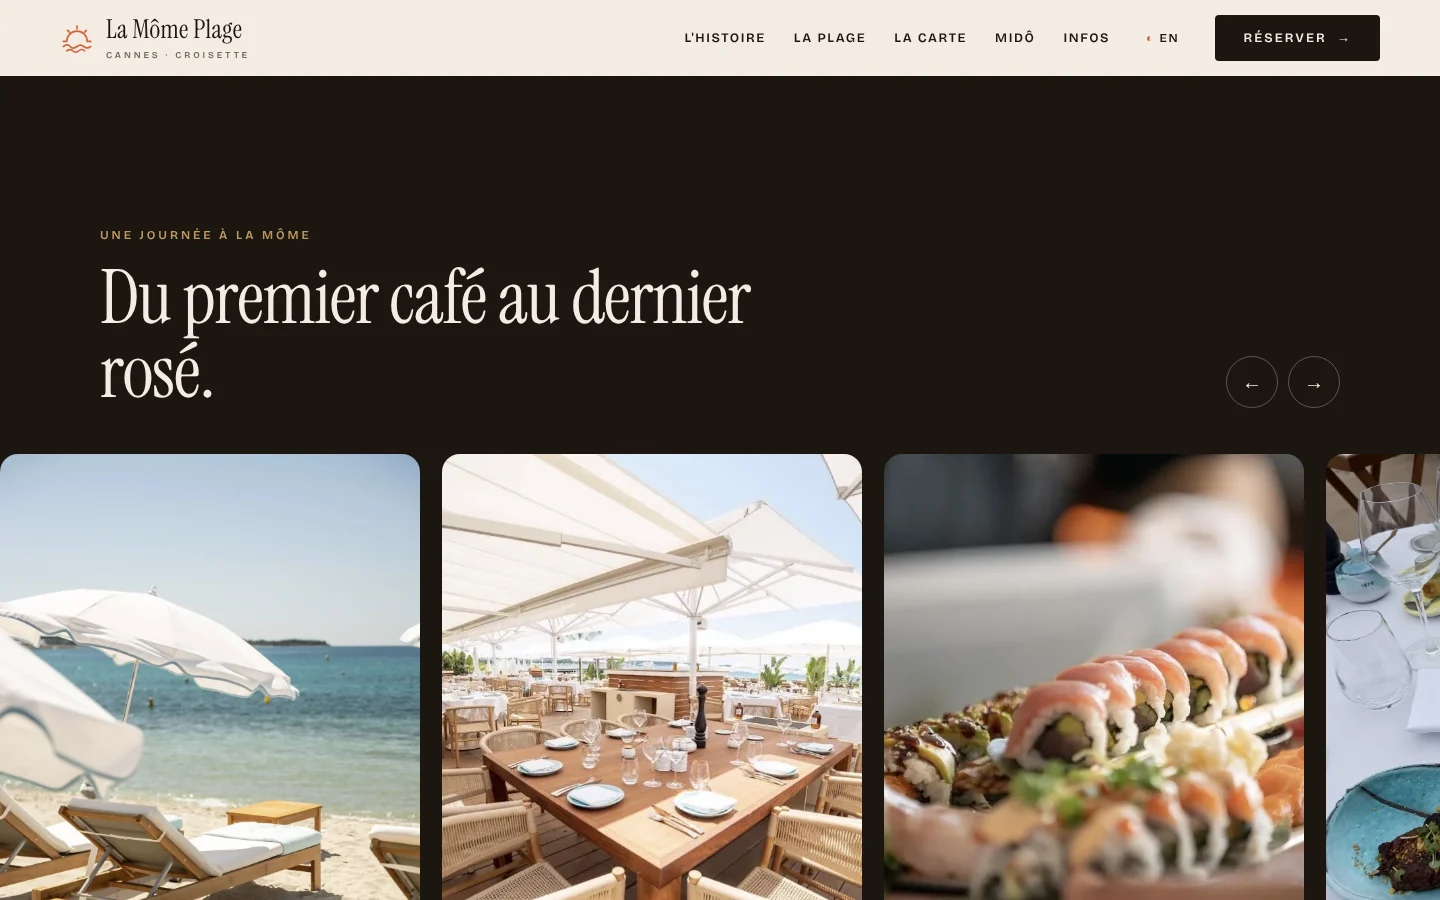
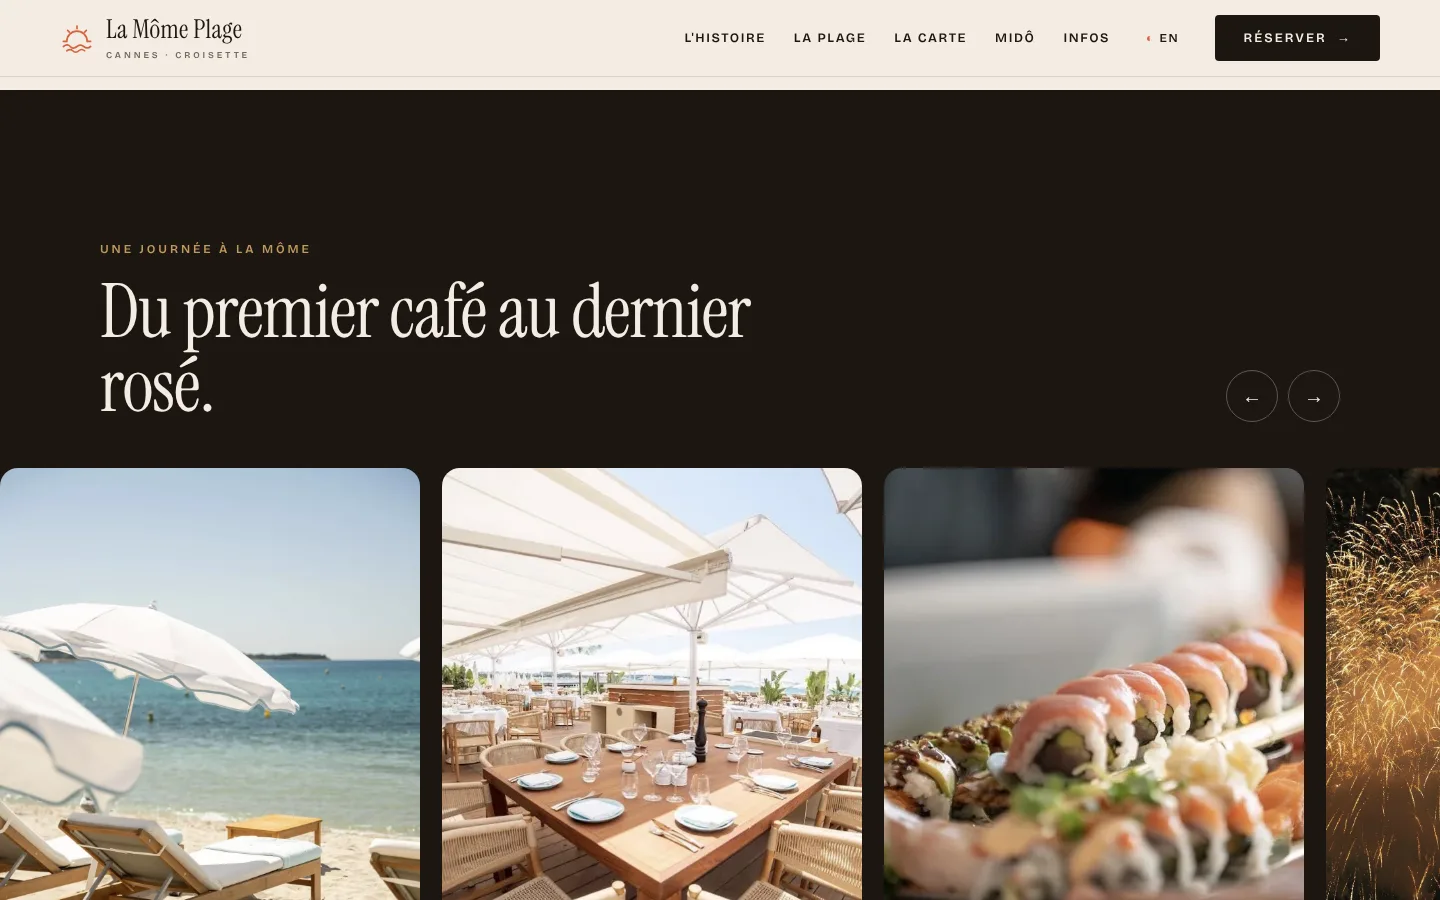
La Môme Plage: Fleischfoto durch Feuerwerk über der Bucht ersetzt
Claude-Session: https://claude.ai/code/session_01RuMRP4ZNcFiZCnMHWe6esT

Changed region(s): [[0.0, 0.4978, 1.0, 1.0], [0.0, 0.0622, 1.0, 0.1244], [0.0625, 0.2489, 0.5312, 0.4667]]

diff --git a/portfolio/bildnachweise.html b/portfolio/bildnachweise.html
@@ -9,7 +9,7 @@
 <meta name="theme-color" content="#f6f5f0">
 <link rel="icon" href="brand/scrollwerk-icon.svg" type="image/svg+xml">
 <link rel="apple-touch-icon" href="brand/apple-touch-icon.png">
-<link rel="stylesheet" href="styles.css?v=20261118h">
+<link rel="stylesheet" href="styles.css?v=20261118i">
 </head>
 <body data-page="credits">
 <main>
@@ -21,9 +21,9 @@
 <h2>BMW M</h2><ul><li><b>M3 E30:</b> <a href="https://commons.wikimedia.org/wiki/File:BMW_M3_E30,_Pau_2015_2.jpg" target="_blank" rel="noopener">BMW M3 E30, Pau 2015 2.jpg</a> – Handelsgeselschaft, CC BY-SA 4.0</li><li><b>M2:</b> <a href="https://commons.wikimedia.org/wiki/File:BMW_M2_(G87)_IMG_8806.jpg" target="_blank" rel="noopener">BMW M2 (G87) IMG 8806.jpg</a> – Alexander Migl, CC BY-SA 4.0</li><li><b>M4 CSL:</b> <a href="https://commons.wikimedia.org/wiki/File:2022_BMW_M4_CSL_FOS22.jpg" target="_blank" rel="noopener">2022 BMW M4 CSL FOS22.jpg</a> – MrWalkr, CC BY-SA 4.0</li><li><b>M8:</b> <a href="https://commons.wikimedia.org/wiki/File:BMW_M8_Gran_Coupe_Competition_(Facelift)_1X7A6106.jpg" target="_blank" rel="noopener">BMW M8 Gran Coupe Competition (Facelift) 1X7A6106.jpg</a> – Alexander Migl, CC BY-SA 4.0</li><li><b>M5:</b> <a href="https://commons.wikimedia.org/wiki/File:BMW_M5_(G90)_MYLE_Festival_2025_DSC_9764.jpg" target="_blank" rel="noopener">BMW M5 (G90) MYLE Festival 2025 DSC 9764.jpg</a> – Alexander Migl, CC BY-SA 4.0</li><li><b>XM:</b> <a href="https://commons.wikimedia.org/wiki/File:BMW_XM_(G09)_China.jpg" target="_blank" rel="noopener">BMW XM (G09) China.jpg</a> – Dinkun Chen, CC BY-SA 4.0</li></ul><h2>Ferrari</h2><ul><li><b>F40:</b> <a href="https://commons.wikimedia.org/wiki/File:F40_Ferrari_20090509.jpg" target="_blank" rel="noopener">F40 Ferrari 20090509.jpg</a> – Will ainsworth, CC BY-SA 3.0</li><li><b>F50:</b> <a href="https://commons.wikimedia.org/wiki/File:Black_Ferrari_F50.jpg" target="_blank" rel="noopener">Black Ferrari F50.jpg</a> – MrWalkr, CC BY-SA 4.0</li><li><b>Enzo:</b> <a href="https://commons.wikimedia.org/wiki/File:Red_Enzo_Ferrari_(12273651534).jpg" target="_blank" rel="noopener">Red Enzo Ferrari (12273651534).jpg</a> – Axion23, CC BY 2.0</li><li><b>LaFerrari:</b> <a href="https://commons.wikimedia.org/wiki/File:Ferrari_LaFerrari_at_the_Ferrari_museum.jpg" target="_blank" rel="noopener">Ferrari LaFerrari at the Ferrari museum.jpg</a> – Matyáš Solařík, CC BY-SA 4.0</li><li><b>Daytona SP3:</b> <a href="https://commons.wikimedia.org/wiki/File:Ferrari_Daytona_SP3_(82743).jpg" target="_blank" rel="noopener">Ferrari Daytona SP3 (82743).jpg</a> – Calreyn88, CC BY-SA 4.0</li><li><b>F80:</b> <a href="https://commons.wikimedia.org/wiki/File:2025_Ferrari_F80.jpg" target="_blank" rel="noopener">2025 Ferrari F80.jpg</a> – Calreyn88, CC BY-SA 4.0</li><li><b>Wappen:</b> <a href="https://commons.wikimedia.org/wiki/File:DSC00458_(7614921264).jpg" target="_blank" rel="noopener">DSC00458 (7614921264).jpg</a> – Dennis G. Jarvis, CC BY-SA 2.0</li></ul><h2>Porsche</h2><ul><li><b>718 Cayman:</b> <a href="https://commons.wikimedia.org/wiki/File:Porsche_718_Cayman_GTS_1X7A7165.jpg" target="_blank" rel="noopener">Porsche 718 Cayman GTS 1X7A7165</a> – Alexander-93, CC BY-SA 4.0</li><li><b>Taycan:</b> <a href="https://commons.wikimedia.org/wiki/File:2024_Porsche_Taycan_GTS_IAA_2025_DSC_1988.jpg" target="_blank" rel="noopener">2024 Porsche Taycan GTS IAA 2025 DSC 1988</a> – Alexander-93, CC BY-SA 4.0</li><li><b>Panamera:</b> <a href="https://commons.wikimedia.org/wiki/File:Porsche_971_Panamera_(Singapore).jpg" target="_blank" rel="noopener">Porsche 971 Panamera (Singapore)</a> – Pangalau, CC BY-SA 4.0</li><li><b>Macan:</b> <a href="https://commons.wikimedia.org/wiki/File:Porsche_Macan_(89633).jpg" target="_blank" rel="noopener">Porsche Macan (89633)</a> – Calreyn88, CC BY-SA 4.0</li><li><b>Cayenne:</b> <a href="https://commons.wikimedia.org/wiki/File:Porsche_Cayenne,_Auto_2024,_Zurich_(PANA0862).jpg" target="_blank" rel="noopener">Porsche Cayenne, Auto 2024, Zurich (PANA0862)</a> – Matti Blume, CC BY-SA 4.0</li></ul><h2>iPhone 17 Pro</h2><ul><li><a href="https://commons.wikimedia.org/wiki/File:Cosmic_Orange_iPhone_17_Pro_Max.jpg" target="_blank" rel="noopener">Cosmic Orange iPhone 17 Pro Max.jpg</a> – Ahmad Ali Karim, CC0</li><li><a href="https://commons.wikimedia.org/wiki/File:Deep_Blue_iPhone_17_Pro_Max.jpg" target="_blank" rel="noopener">Deep Blue iPhone 17 Pro Max.jpg</a> – Ahmad Ali Karim, CC0</li><li><a href="https://commons.wikimedia.org/wiki/File:Silver_iPhone_17_Pro_Max.jpg" target="_blank" rel="noopener">Silver iPhone 17 Pro Max.jpg</a> – Ahmad Ali Karim, CC0</li></ul><h2>Red Bull (Spec-Arbeit)</h2><p>Marke „Red Bull“, Doppelstier-Logo und die Produktfotos der Editions und von Red Bull Zero: Red Bull GmbH – bereitgestellt, Nutzung nur zur Demonstration in einer unbeauftragten Konzeptarbeit. 3D-Dosen, Etiketten-Nachbau und 24er Tray: eigene Umsetzung von Scrollwerk.</p><h2>Porsche 911</h2><p>Foto bereitgestellt (Quelle eintragen).</p>
 </div>
 </main>
-<script src="config.js?v=20261118h"></script>
-<script src="data.js?v=20261118h"></script>
-<script src="site.js?v=20261118h"></script>
+<script src="config.js?v=20261118i"></script>
+<script src="data.js?v=20261118i"></script>
+<script src="site.js?v=20261118i"></script>
 
 </body>
 </html>

diff --git a/portfolio/projekte/la-mome-plage/index.html b/portfolio/projekte/la-mome-plage/index.html
@@ -239,7 +239,7 @@ footer a { text-decoration: none; } footer a:hover { color: var(--terra); }
     <a class="stop" href="#reserver"><div class="ph"><img src="img/plage.webp" alt="Transats et parasols sur le sable, mer turquoise" loading="lazy"></div><div class="meta"><span class="num">I</span><div><b data-i18n="m1t">Le sable</b><span data-i18n="m1s">Un transat face aux îles, la mer à deux pas.</span></div></div></a>
     <a class="stop" href="#carte"><div class="ph"><img src="img/terrasse.webp" alt="Grande table dressée sur la terrasse" loading="lazy"></div><div class="meta"><span class="num">II</span><div><b data-i18n="m2t">Le déjeuner</b><span data-i18n="m2s">Sous les voiles, tous les jours à midi.</span></div></div></a>
     <a class="stop" href="#mido"><div class="ph"><img src="img/sushi.webp" alt="Rolls et sashimis Midô" loading="lazy"></div><div class="meta"><span class="num">III</span><div><b data-i18n="m3t">Midô</b><span data-i18n="m3s">Sushi et rolls signature au bord de l'eau.</span></div></div></a>
-    <a class="stop" href="#carte"><div class="ph"><img src="img/table.webp" alt="Tagliata de bœuf, frites et tartare sur la table" loading="lazy"></div><div class="meta"><span class="num">IV</span><div><b data-i18n="m5t">Le grill</b><span data-i18n="m5s">Tagliata, tartare au couteau, poisson du jour.</span></div></div></a>
+    <a class="stop" href="#carte"><div class="ph"><img src="img/feu.webp" alt="Feu d'artifice doré au-dessus de la baie de Cannes" loading="lazy"></div><div class="meta"><span class="num">IV</span><div><b data-i18n="m5t">Les feux d'artifice</b><span data-i18n="m5s">Les nuits d'été, la baie s'embrase en or.</span></div></div></a>
     <a class="stop" href="#reserver"><div class="ph"><img src="img/soir.webp" alt="Le restaurant le soir" loading="lazy"></div><div class="meta"><span class="num">V</span><div><b data-i18n="m4t">Le coucher du soleil</b><span data-i18n="m4s">En saison, quand la Croisette s'illumine.</span></div></div></a>
   </div>
 </section>
@@ -264,7 +264,7 @@ footer a { text-decoration: none; } footer a:hover { color: var(--terra); }
   <div class="mosaic">
     <img class="rv" src="img/plage.webp" alt="Parasols et transats sur la plage" loading="lazy">
     <img class="rv" src="img/terrasse-sm.webp" alt="La terrasse" loading="lazy">
-    <img class="rv" src="img/table.webp" alt="Plats sur la table" loading="lazy">
+    <img class="rv" src="img/feu-sm.webp" alt="Feu d'artifice sur la baie de Cannes" loading="lazy">
     <img class="rv" src="img/soir-sm.webp" alt="Le soir" loading="lazy">
     <img class="rv" src="img/sushi-sm.webp" alt="Sushi Midô" loading="lazy">
   </div>
@@ -399,7 +399,7 @@ const T = {
    footP: 'Restaurant and private beach on the Croisette, steps from the Palais des Festivals.', contact: 'Contact', explore: 'Explore',
    heroLbl: 'Restaurant & beach · Cannes', f1: 'Facing the Lérins islands', f2t: 'Lunch', f2: 'Every day', f3t: 'Evening', f3: 'In season',
    t1: 'The beach', t1s: 'Sunbeds, parasols and service with your feet in the sand.', t2: 'The table', t2s: 'Seafood, grill, truffle pasta and desserts to share.',
-   t3: 'The evening', t3s: 'In season, dinner facing the sunset.', m5t: 'The grill', m5s: 'Tagliata, hand-cut tartare, catch of the day.' } };
+   t3: 'The evening', t3s: 'In season, dinner facing the sunset.', m5t: 'The fireworks', m5s: 'On summer nights, the bay lights up in gold.' } };
 Object.assign(T.en, { h1: 'Inspired by <i>La Môme Moineau</i>.', story1: 'Flower seller in Parisian nightlife, quick-witted singer, then queen of Cannes parties: a woman of a thousand lives.',
   story2: 'Her receptions at Villa Bagatelle were legendary – people danced, laughed and lived. La Môme Plage brings that spirit back: Riviera glamour and elegance, generous cuisine and attentive service.',
   h2: 'From the first coffee to the last rosé.', m1t: 'The sand', m1s: 'A sunbed facing the islands, the sea a few steps away.', m2t: 'Lunch', m2s: 'Under the sails, every day at noon.',

diff --git a/portfolio/danke.html b/portfolio/danke.html
@@ -9,7 +9,7 @@
 <meta name="theme-color" content="#f6f5f0">
 <link rel="icon" href="brand/scrollwerk-icon.svg" type="image/svg+xml">
 <link rel="apple-touch-icon" href="brand/apple-touch-icon.png">
-<link rel="stylesheet" href="styles.css?v=20261118h">
+<link rel="stylesheet" href="styles.css?v=20261118i">
 </head>
 <body data-page="danke">
 <main>
@@ -21,9 +21,9 @@
     <div class="hero-cta reveal"><a class="btn" href="arbeiten.html">Arbeiten ansehen</a><a class="btn btn-ghost" href="index.html">Zur Startseite</a></div>
   </section>
 </main>
-<script src="config.js?v=20261118h"></script>
-<script src="data.js?v=20261118h"></script>
-<script src="site.js?v=20261118h"></script>
+<script src="config.js?v=20261118i"></script>
+<script src="data.js?v=20261118i"></script>
+<script src="site.js?v=20261118i"></script>
 <script>
 (() => { const t = new URLSearchParams(location.search).get('typ');
   if (t === 'check') { document.getElementById('dh').innerHTML = 'Check ist<br>unterwegs.'; document.getElementById('dt').textContent = 'Ich schaue mir deinen Auftritt an und schicke dir innerhalb von 48 Stunden dein Video mit drei konkreten Verbesserungen.'; }

diff --git a/portfolio/agb.html b/portfolio/agb.html
@@ -9,7 +9,7 @@
 <meta name="theme-color" content="#f6f5f0">
 <link rel="icon" href="brand/scrollwerk-icon.svg" type="image/svg+xml">
 <link rel="apple-touch-icon" href="brand/apple-touch-icon.png">
-<link rel="stylesheet" href="styles.css?v=20261118h">
+<link rel="stylesheet" href="styles.css?v=20261118i">
 </head>
 <body data-page="agb">
 <main>
@@ -21,9 +21,9 @@
   <ul><li>Leistungsumfang laut schriftlichem Angebot</li><li>Zahlung: 50 % bei Auftrag, 50 % bei Abnahme; Abos monatlich im Voraus</li><li>Zwei Korrekturrunden inklusive, weitere nach Aufwand</li><li>Nutzungsrechte nach vollständiger Bezahlung, zeitlich unbegrenzt für die eigene Marke</li><li>Mitwirkungspflichten (Material, Freigaben) und deren Fristen</li><li>Kündigung von Abos und Betreuung: monatlich</li><li>Haftung und Gewährleistung</li></ul>
 </div>
 </main>
-<script src="config.js?v=20261118h"></script>
-<script src="data.js?v=20261118h"></script>
-<script src="site.js?v=20261118h"></script>
+<script src="config.js?v=20261118i"></script>
+<script src="data.js?v=20261118i"></script>
+<script src="site.js?v=20261118i"></script>
 
 </body>
 </html>

diff --git a/portfolio/arbeiten.html b/portfolio/arbeiten.html
@@ -8,7 +8,7 @@
 <meta name="theme-color" content="#f6f5f0">
 <link rel="icon" href="brand/scrollwerk-icon.svg" type="image/svg+xml">
 <link rel="apple-touch-icon" href="brand/apple-touch-icon.png">
-<link rel="stylesheet" href="styles.css?v=20261118h">
+<link rel="stylesheet" href="styles.css?v=20261118i">
 </head>
 <body data-page="arbeiten">
 <main>
@@ -28,9 +28,9 @@
     <p class="spec-note" style="padding:0;margin-top:24px">Alle gezeigten Arbeiten sind Konzept- bzw. unbeauftragte Spec-Arbeiten zur Demonstration. Keine Verbindung zu den gezeigten Marken; Namen und Logos gehören ihren Inhabern. <a href="bildnachweise.html">Bildnachweise</a>.</p>
   </section>
 </main>
-<script src="config.js?v=20261118h"></script>
-<script src="data.js?v=20261118h"></script>
-<script src="site.js?v=20261118h"></script>
+<script src="config.js?v=20261118i"></script>
+<script src="data.js?v=20261118i"></script>
+<script src="site.js?v=20261118i"></script>
 <script>
 (() => {
   const { esc, projectCard, soonCard } = window.SITE;

diff --git a/portfolio/faq.html b/portfolio/faq.html
@@ -8,7 +8,7 @@
 <meta name="theme-color" content="#f6f5f0">
 <link rel="icon" href="brand/scrollwerk-icon.svg" type="image/svg+xml">
 <link rel="apple-touch-icon" href="brand/apple-touch-icon.png">
-<link rel="stylesheet" href="styles.css?v=20261118h">
+<link rel="stylesheet" href="styles.css?v=20261118i">
 </head>
 <body data-page="faq">
 <main>
@@ -18,9 +18,9 @@
   <div class="seg-wrap"><div class="section-head"><div class="seg" role="tablist" id="seg"><span class="seg-ind"></span></div></div></div>
   <section class="section-head"><div id="faqs"></div></section>
 </main>
-<script src="config.js?v=20261118h"></script>
-<script src="data.js?v=20261118h"></script>
-<script src="site.js?v=20261118h"></script>
+<script src="config.js?v=20261118i"></script>
+<script src="data.js?v=20261118i"></script>
+<script src="site.js?v=20261118i"></script>
 <script>
 (() => {
   const { esc } = window.SITE;

diff --git a/portfolio/datenschutz.html b/portfolio/datenschutz.html
@@ -9,7 +9,7 @@
 <meta name="theme-color" content="#f6f5f0">
 <link rel="icon" href="brand/scrollwerk-icon.svg" type="image/svg+xml">
 <link rel="apple-touch-icon" href="brand/apple-touch-icon.png">
-<link rel="stylesheet" href="styles.css?v=20261118h">
+<link rel="stylesheet" href="styles.css?v=20261118i">
 </head>
 <body data-page="datenschutz">
 <main>
@@ -33,9 +33,9 @@
   <p>Du hast das Recht auf Auskunft, Berichtigung, Löschung, Einschränkung der Verarbeitung, Datenübertragbarkeit und Widerspruch sowie das Recht auf Beschwerde bei einer Aufsichtsbehörde (z. B. LDI NRW).</p>
 </div>
 </main>
-<script src="config.js?v=20261118h"></script>
-<script src="data.js?v=20261118h"></script>
-<script src="site.js?v=20261118h"></script>
+<script src="config.js?v=20261118i"></script>
+<script src="data.js?v=20261118i"></script>
+<script src="site.js?v=20261118i"></script>
 
 </body>
 </html>

diff --git a/portfolio/index.html b/portfolio/index.html
@@ -13,7 +13,7 @@
 <link rel="icon" href="brand/scrollwerk-icon.svg" type="image/svg+xml">
 <link rel="apple-touch-icon" href="brand/apple-touch-icon.png">
 <link rel="preload" href="fonts/InterDisplay-Black.woff2" as="font" type="font/woff2" crossorigin>
-<link rel="stylesheet" href="styles.css?v=20261118h">
+<link rel="stylesheet" href="styles.css?v=20261118i">
 </head>
 <body data-page="start">
 <main>
@@ -160,10 +160,10 @@
   </section>
 </main>
 
-<script src="config.js?v=20261118h"></script>
-<script src="data.js?v=20261118h"></script>
-<script src="site.js?v=20261118h"></script>
-<script src="carousel.js?v=20261118h"></script>
+<script src="config.js?v=20261118i"></script>
+<script src="data.js?v=20261118i"></script>
+<script src="site.js?v=20261118i"></script>
+<script src="carousel.js?v=20261118i"></script>
 <script>
 (() => {
   const { esc, projectCard } = window.SITE;

diff --git a/portfolio/impressum.html b/portfolio/impressum.html
@@ -9,7 +9,7 @@
 <meta name="theme-color" content="#f6f5f0">
 <link rel="icon" href="brand/scrollwerk-icon.svg" type="image/svg+xml">
 <link rel="apple-touch-icon" href="brand/apple-touch-icon.png">
-<link rel="stylesheet" href="styles.css?v=20261118h">
+<link rel="stylesheet" href="styles.css?v=20261118i">
 </head>
 <body data-page="impressum">
 <main>
@@ -31,9 +31,9 @@
   <p>Die im Portfolio gezeigten Projekte sind Konzept- bzw. Spec-Arbeiten. Genannte Marken und Logos Dritter gehören ihren Inhabern; es besteht keine Verbindung zu diesen Unternehmen.</p>
 </div>
 </main>
-<script src="config.js?v=20261118h"></script>
-<script src="data.js?v=20261118h"></script>
-<script src="site.js?v=20261118h"></script>
+<script src="config.js?v=20261118i"></script>
+<script src="data.js?v=20261118i"></script>
+<script src="site.js?v=20261118i"></script>
 
 </body>
 </html>

diff --git a/portfolio/preise.html b/portfolio/preise.html
@@ -8,7 +8,7 @@
 <meta name="theme-color" content="#f6f5f0">
 <link rel="icon" href="brand/scrollwerk-icon.svg" type="image/svg+xml">
 <link rel="apple-touch-icon" href="brand/apple-touch-icon.png">
-<link rel="stylesheet" href="styles.css?v=20261118h">
+<link rel="stylesheet" href="styles.css?v=20261118i">
 </head>
 <body data-page="preise">
 <main>
@@ -53,9 +53,9 @@
     <p class="price-hint" style="padding:0" data-cfg="vatNote"></p>
   </section>
 </main>
-<script src="config.js?v=20261118h"></script>
-<script src="data.js?v=20261118h"></script>
-<script src="site.js?v=20261118h"></script>
+<script src="config.js?v=20261118i"></script>
+<script src="data.js?v=20261118i"></script>
+<script src="site.js?v=20261118i"></script>
 <script>
 (() => {
   const { esc, euro } = window.SITE;

diff --git a/portfolio/leistungen.html b/portfolio/leistungen.html
@@ -8,7 +8,7 @@
 <meta name="theme-color" content="#f6f5f0">
 <link rel="icon" href="brand/scrollwerk-icon.svg" type="image/svg+xml">
 <link rel="apple-touch-icon" href="brand/apple-touch-icon.png">
-<link rel="stylesheet" href="styles.css?v=20261118h">
+<link rel="stylesheet" href="styles.css?v=20261118i">
 </head>
 <body data-page="leistungen">
 <main>
@@ -159,9 +159,9 @@
     </div>
   </section>
 </main>
-<script src="config.js?v=20261118h"></script>
-<script src="data.js?v=20261118h"></script>
-<script src="site.js?v=20261118h"></script>
+<script src="config.js?v=20261118i"></script>
+<script src="data.js?v=20261118i"></script>
+<script src="site.js?v=20261118i"></script>
 <script>
 (() => {
   const links = [...document.querySelectorAll('.subnav a[href^="#"]')];

diff --git a/portfolio/ueber-mich.html b/portfolio/ueber-mich.html
@@ -8,7 +8,7 @@
 <meta name="theme-color" content="#f6f5f0">
 <link rel="icon" href="brand/scrollwerk-icon.svg" type="image/svg+xml">
 <link rel="apple-touch-icon" href="brand/apple-touch-icon.png">
-<link rel="stylesheet" href="styles.css?v=20261118h">
+<link rel="stylesheet" href="styles.css?v=20261118i">
 </head>
 <body data-page="ueber">
 <main>
@@ -54,9 +54,9 @@
     <div class="team" id="teamGrid"></div>
   </section>
 </main>
-<script src="config.js?v=20261118h"></script>
-<script src="data.js?v=20261118h"></script>
-<script src="site.js?v=20261118h"></script>
+<script src="config.js?v=20261118i"></script>
+<script src="data.js?v=20261118i"></script>
+<script src="site.js?v=20261118i"></script>
 <script>
 (() => {
   const { esc } = window.SITE;
